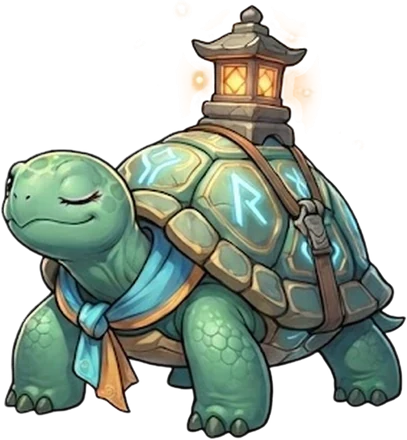
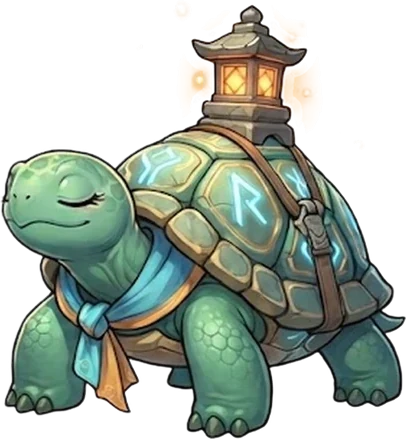
Compagnons : tortue, nouvelles images yeux fermés (les deux yeux)
Claude-Session: https://claude.ai/code/session_014VBvzn7cPipHkoepy8RC9p

diff --git a/index.html b/index.html
@@ -7433,7 +7433,7 @@ function doImport() {
 
 
 /* ===================== Nouveautés (à mettre à jour à chaque version) ===================== */
-const APP_VERSION = '9.125.4'; // ⚠ Mettre aussi le même numéro dans version.json (sinon pas de mise à jour automatique)
+const APP_VERSION = '9.125.5'; // ⚠ Mettre aussi le même numéro dans version.json (sinon pas de mise à jour automatique)
 /* Notes de mise à jour : UNE seule entrée par jour. Si une entrée existe déjà pour aujourd'hui, mets-la à jour (v = dernière version, ajoute/réécris les puces) au lieu d'en ajouter une nouvelle. */
 const CHANGELOG = [
   {v: '9.123.2', d: '2026-11-23', fr: ['Fin de séance : une fois le coffre ouvert, le bouton devient « Coffre ouvert · revoir le butin » au lieu de « Ouvrir ton coffre ».'], en: ['End of workout: once the chest is opened, the button becomes “Chest opened · see the loot” instead of “Open your chest”.']},
